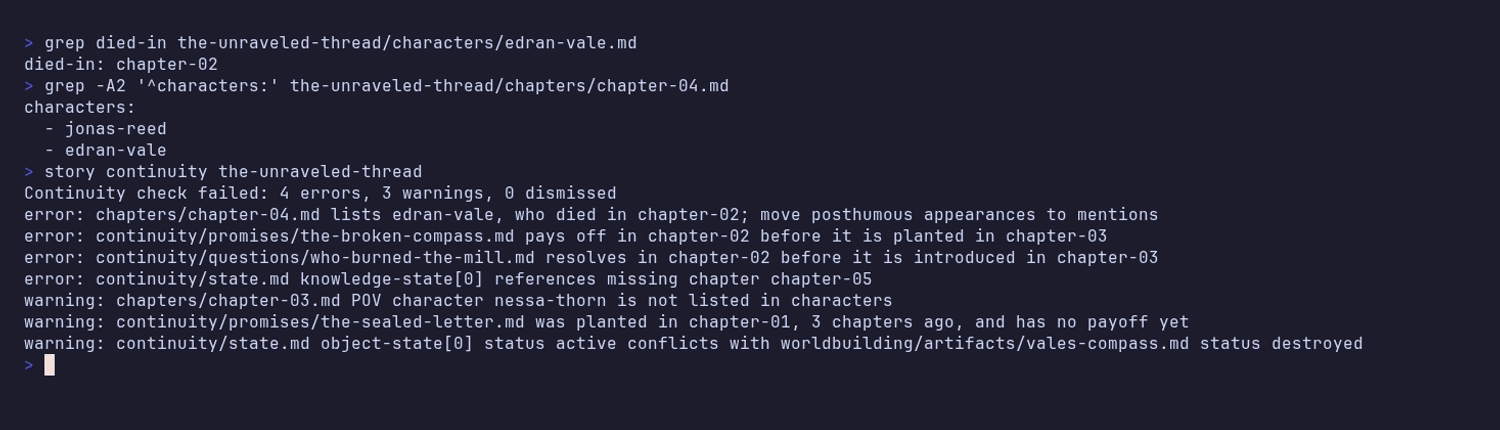
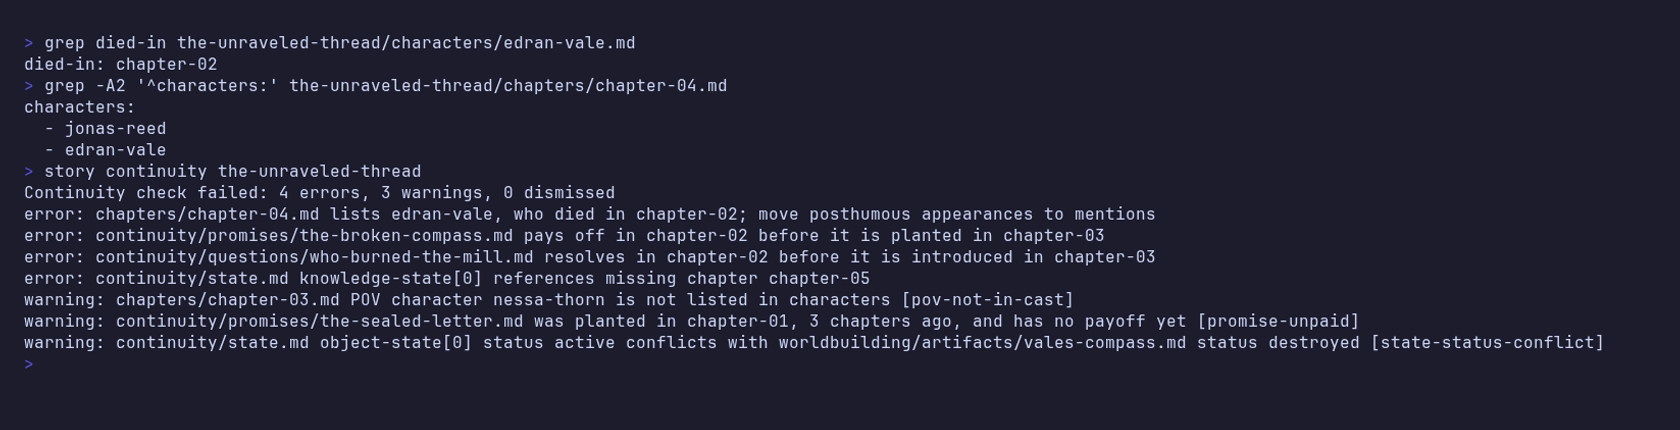
docs: regenerate the demo GIF and continuity screenshot
Both predated the rule codes `story continuity` prints. The screenshot
now comes from assets/screenshot-continuity.tape, a still of the demo's
last frame, and both tapes are 1680 pixels wide so the longest finding,
[state-status-conflict] included, fits on one line. The tape header
shows how to run VHS's Docker image, which has no Node.

Claude-Session: https://claude.ai/code/session_01L8ZJzAHijPYrnzoNFst1Jy

Changed region(s): [[0.0, 0.0907, 0.9507, 0.8767]]

diff --git a/docs/development.md b/docs/development.md
@@ -72,7 +72,7 @@ story-skills/
 ├── evals/                        # skill regression harness (repo tooling only)
 ├── templates/github/             # workflows and an issue form users copy into story repositories (shipped in the npm package)
 ├── docs/                         # this documentation (shipped in the npm package)
-├── assets/                       # logo, screenshot, social preview, demo GIF + VHS tape
+├── assets/                       # logo, screenshot, social preview, demo GIF + VHS tapes
 ├── CHANGELOG.md                  # user-visible changes per release (Keep a Changelog)
 ├── CONTRIBUTING.md               # short contributor guide that points here
 ├── CODE_OF_CONDUCT.md            # Contributor Covenant 2.1
@@ -89,7 +89,7 @@ Notes on specific paths:
 - `evals/` is tooling for this repository. Agents using the skills never load it. `evals/outputs/` and `evals/baseline/` are gitignored.
 - `docs/`, `bin/`, `src/`, `skills/`, `schemas/`, `examples/`, `templates/`, `README.md`, `CHANGELOG.md`, and `LICENSE` (the `files` list in `package.json`), plus `package.json` itself, which npm always includes, are the only paths published to npm.
 - The `exports` map in `package.json` makes only `story-skills/package.json` and `story-skills/schemas/*` importable; `src/` is internal and the `story` bin is the interface. The README and docs are read from the installed package too, so every shipped markdown file (`README.md`, `CHANGELOG.md`, `docs/`, `skills/`, `examples/`, `templates/`) links to anything outside the `files` list (`AGENTS.md`, `CONTRIBUTING.md`, `SECURITY.md`, `assets/`, `evals/`, `scripts/`, `test/`, `.github/`, the plugin folders) with an absolute `https://github.com/danjdewhurst/story-skills/blob/main/...` URL, which `check:links` checks against the checkout. `check:package` fails on a relative link in any shipped markdown file that the tarball does not contain, and on any root-relative link (`/AGENTS.md`), which resolves from the disk's root in `node_modules`. `test/check-scripts.test.js` runs the same check against the `files` list.
-- `assets/demo.gif` is generated from `assets/demo.tape` with `vhs assets/demo.tape`.
+- `assets/demo.gif` is generated from `assets/demo.tape` with `vhs assets/demo.tape`, and the Codex plugin screenshot `assets/screenshot-continuity.png`, the GIF's last frame as a still, from `assets/screenshot-continuity.tape`. Regenerate both when the `story continuity` output they show changes. The header of `demo.tape` shows how to run VHS's Docker image, which has no Node, with a node binary mounted into it.
 - `CLAUDE.md` is a symlink to `AGENTS.md`. Edit `AGENTS.md` and leave the symlink alone.
 
 Do not commit `node_modules/`, `coverage/`, `dist/` directories inside examples, or editor swap files. `.gitignore` already covers them.
